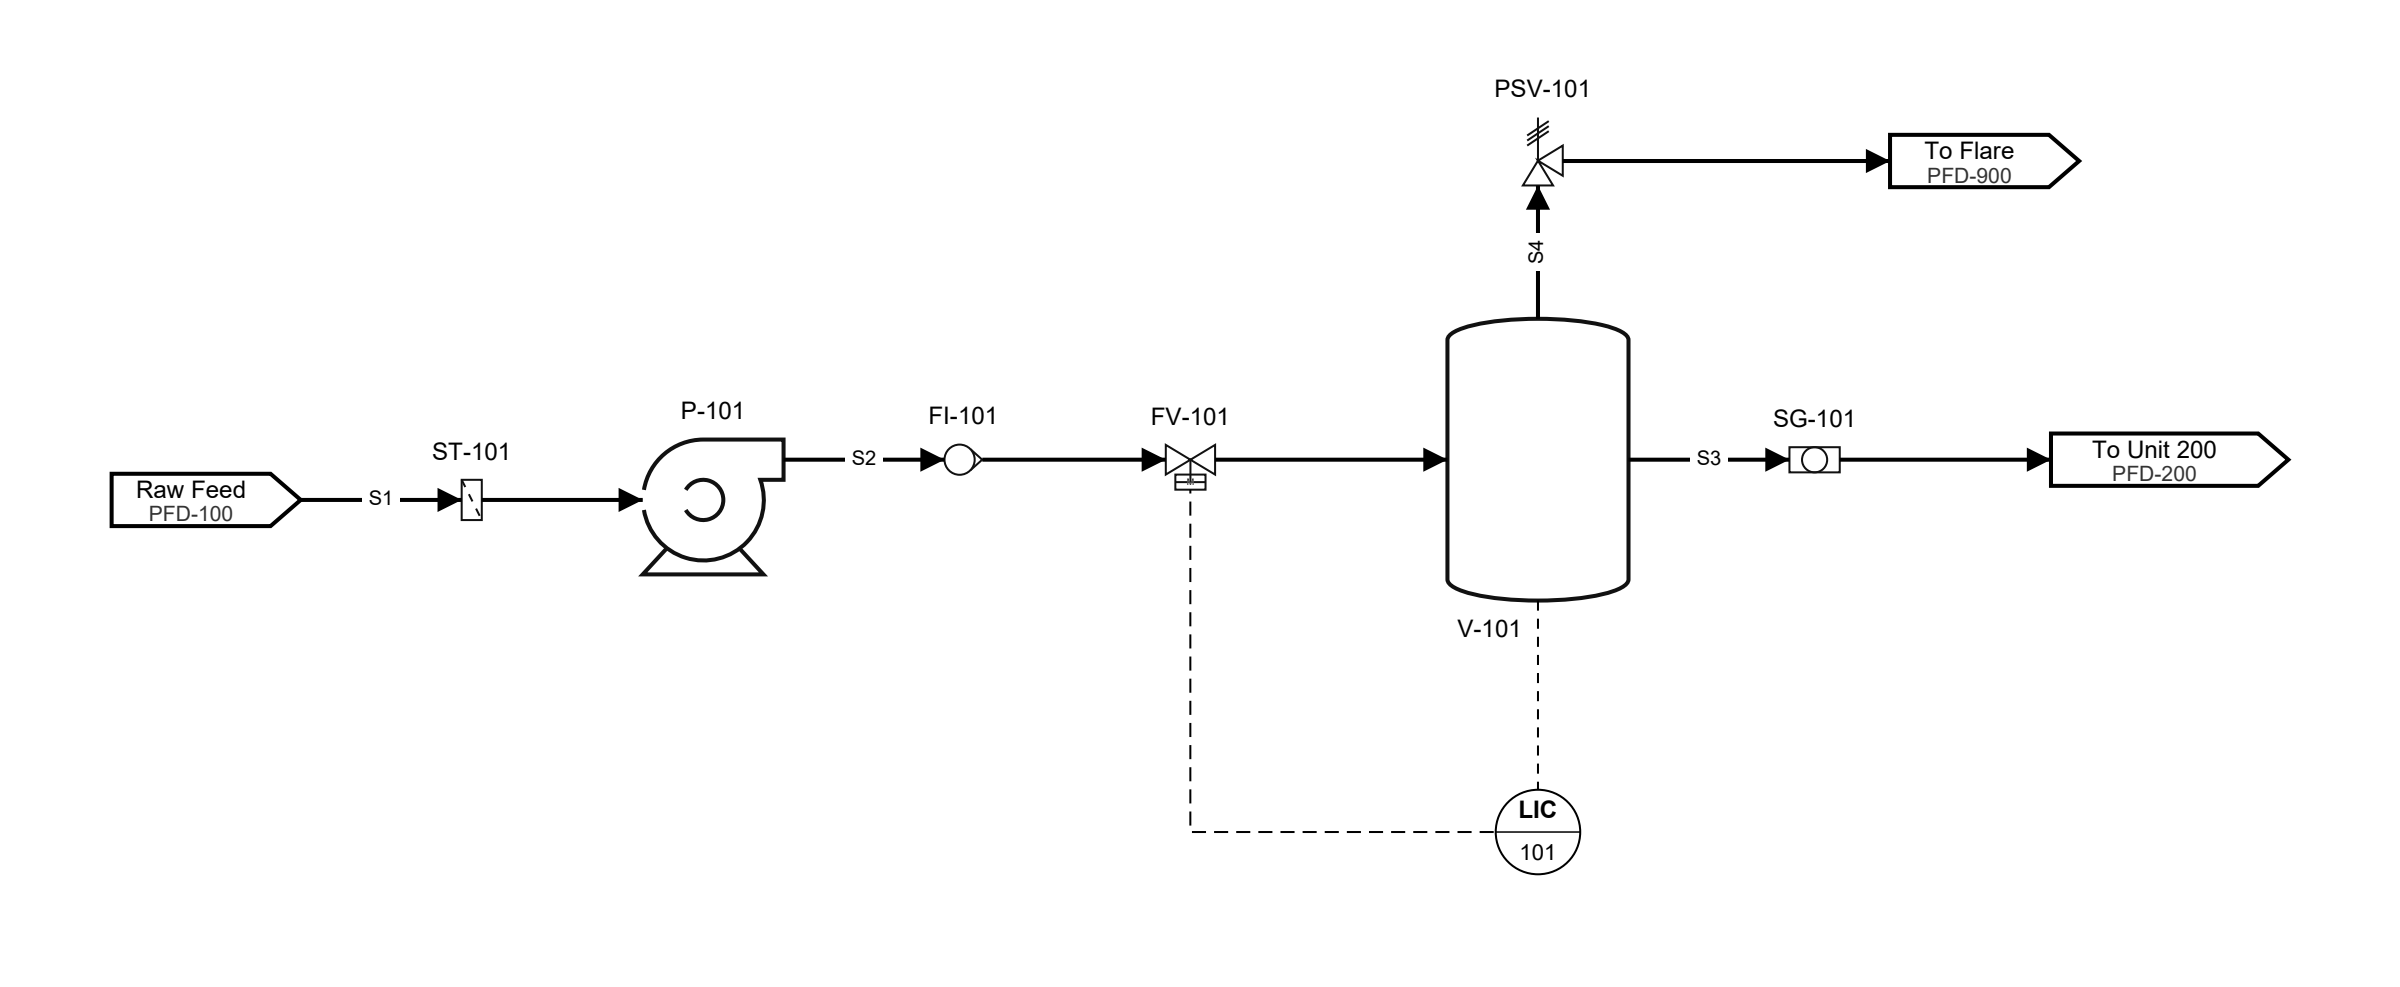
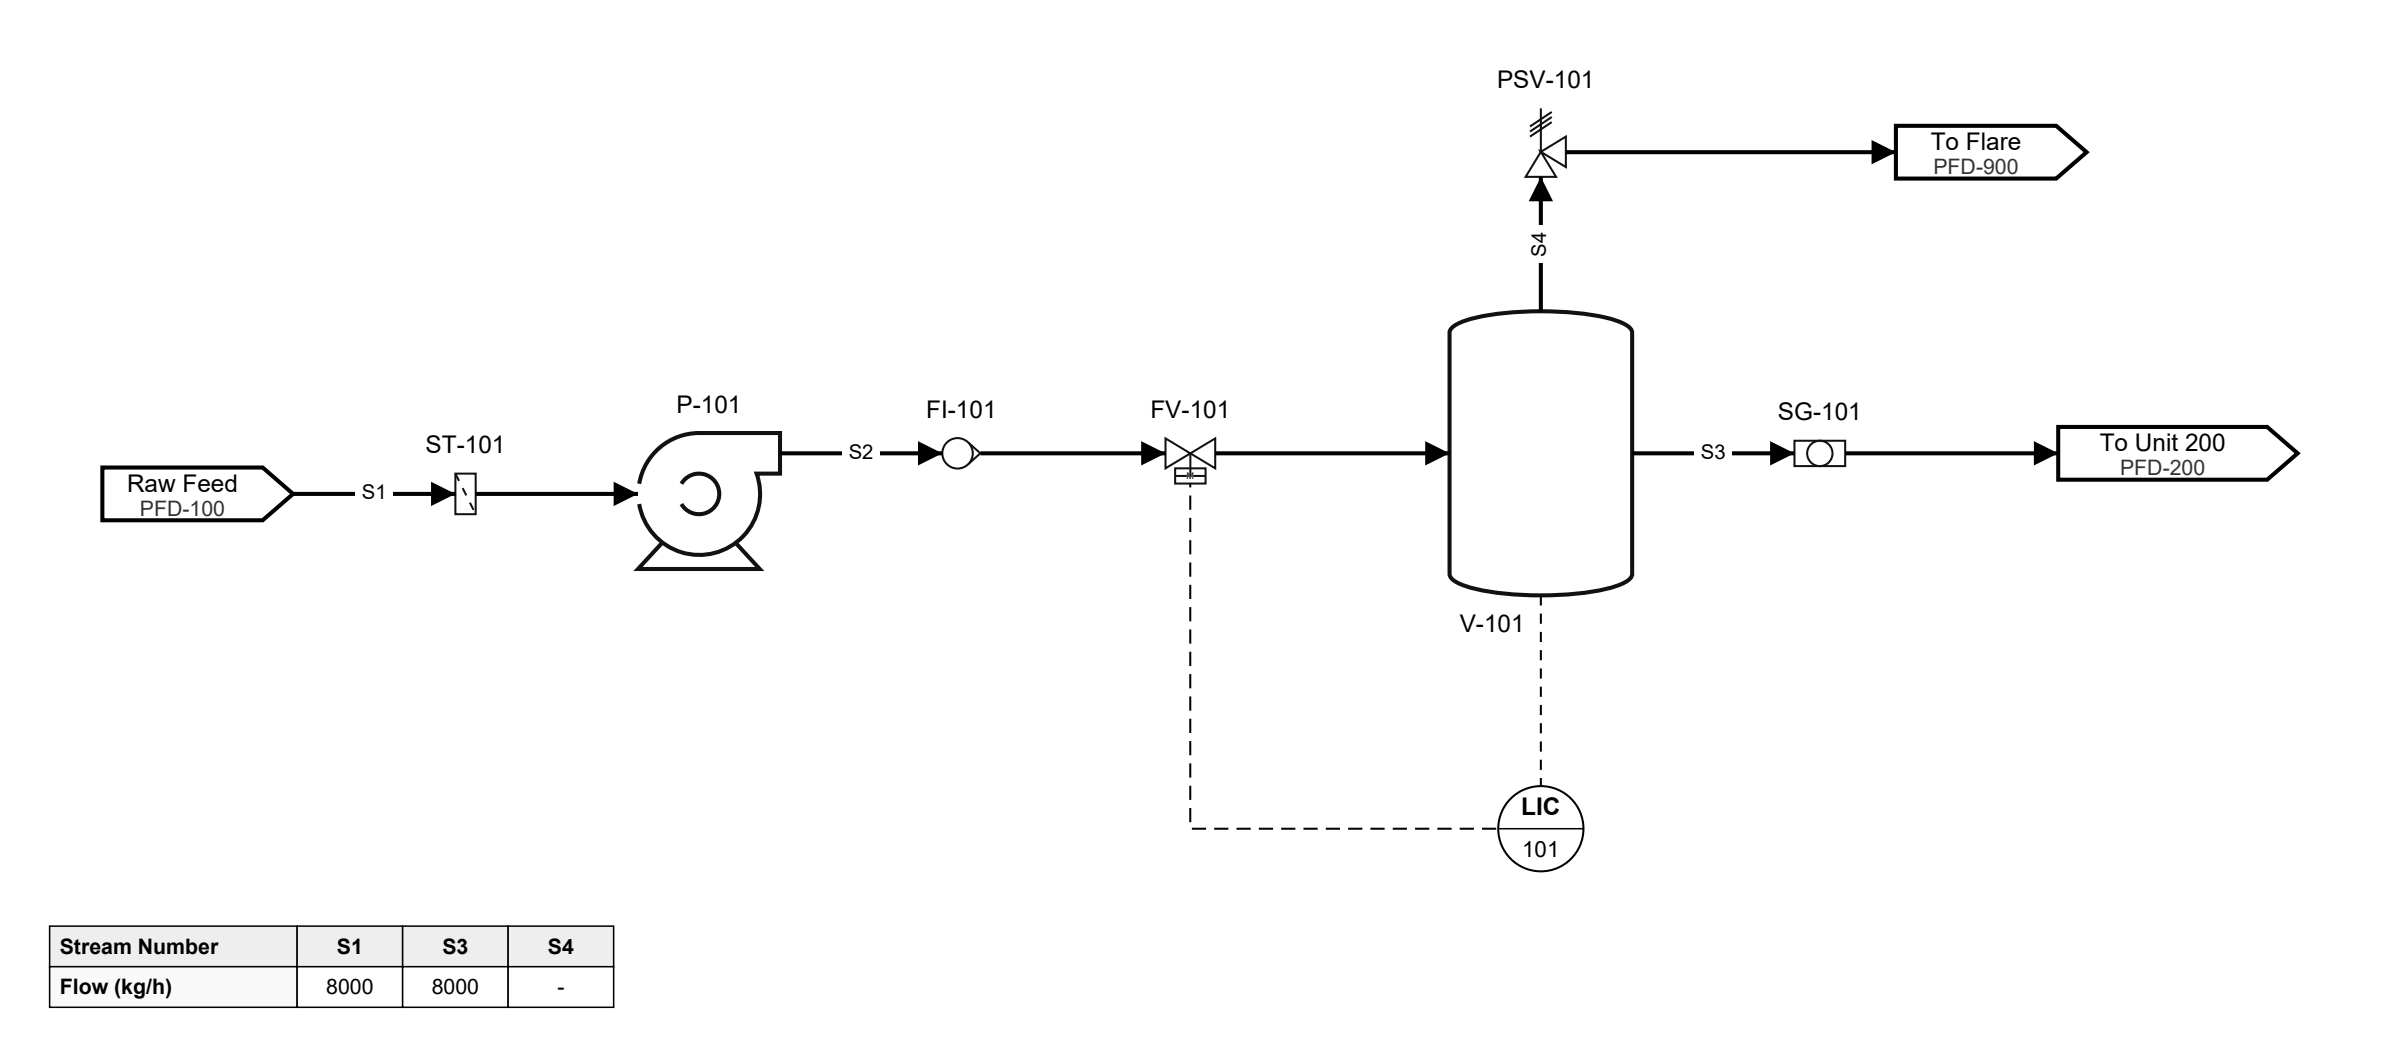
fix(examples): tabulate the metering skid's boundary streams
07_metering_skid raised stream-table-missing (#410). The surge vessel only
buffers what passes through it, so the feed and the outlet to Unit 200
carry the same number; the relief line is open only on overpressure and
carries none in normal service, so it states that with a blank value
rather than a number. Render with show_stream_table=True to report it.

diff --git a/tests/test_golden.py b/tests/test_golden.py
@@ -468,18 +468,21 @@ def _metering_skid() -> Flowsheet:
     psv.pin(y=110).pin(port="inlet", x=680 + port_offset(surge, "vent")[0])
     flare.pin(port="inlet", x=900, y=110 + port_offset(psv, "outlet")[1])
 
-    fs.connect(feed.outlet, strainer.inlet)
+    feed_in = fs.connect(feed.outlet, strainer.inlet)
     fs.connect(strainer.outlet, pump.suction)
     fs.connect(pump.discharge, meter.inlet)
     fs.connect(meter.outlet, fv.inlet)
     fs.connect(fv.outlet, surge.inlet)
     fs.connect(surge.outlet, glass.inlet)
-    fs.connect(glass.outlet, prod.inlet)
+    product_out = fs.connect(glass.outlet, prod.inlet)
     fs.connect(surge.vent, psv.inlet)
-    fs.connect(psv.outlet, flare.inlet)
+    relief_out = fs.connect(psv.outlet, flare.inlet)
 
     lic = fs.add_instrument("LIC", 101, sensing=surge, at="S", offset=115, display="central")
     fs.connect(lic.sig_out, fv.actuator, kind="electric")
+    feed_in.properties = {"Flow (kg/h)": "8000"}
+    product_out.properties = {"Flow (kg/h)": "8000"}
+    relief_out.properties = {"Flow (kg/h)": ""}
     return fs
 
 
@@ -4126,7 +4129,7 @@ SCENARIOS = {
     "04_control_loop": (_control_loop, {"show_stream_table": True}),
     "05_reactor_recycle": (_reactor_recycle, {"show_stream_table": True}),
     "06_column_reflux": (_column_reflux, {"show_stream_table": True}),
-    "07_metering_skid": (_metering_skid, {}),
+    "07_metering_skid": (_metering_skid, {"show_stream_table": True}),
     "08_from_data": (_from_data, {"show_stream_table": True, "border": "zone"}),
     # 09 is issued as a P&ID -- line numbers, "P&ID-1009" -- and is the one
     # scenario drawn as one, so it is also what guards the arrowless process

diff --git a/examples/07_metering_skid.py b/examples/07_metering_skid.py
@@ -62,16 +62,16 @@ def main():
     flare.pin(port="inlet", x=900, y=110 + port_offset(psv, "outlet")[1])
 
     # --- Connections --------------------------------------------------
-    fs.connect(feed.outlet, strainer.inlet)
+    feed_in = fs.connect(feed.outlet, strainer.inlet)
     fs.connect(strainer.outlet, pump.suction)
     fs.connect(pump.discharge, meter.inlet)
     fs.connect(meter.outlet, fv.inlet)
     fs.connect(fv.outlet, surge.inlet)
     fs.connect(surge.outlet, glass.inlet)
-    fs.connect(glass.outlet, prod.inlet)
+    product_out = fs.connect(glass.outlet, prod.inlet)
 
     fs.connect(surge.vent, psv.inlet)
-    fs.connect(psv.outlet, flare.inlet)
+    relief_out = fs.connect(psv.outlet, flare.inlet)
 
     # Hung below the vessel rather than beside it: the east side is the
     # outlet run, and an instrument placed into equipment fails
@@ -82,7 +82,14 @@ def main():
                             display="central")
     fs.connect(lic.sig_out, fv.actuator, kind="electric")
 
-    fs.render(out("metering_skid.svg"))
+    # The surge vessel only buffers what passes through it, so the feed
+    # and the outlet to Unit 200 carry the same number; the relief line
+    # is open only on overpressure and carries none in normal service.
+    feed_in.properties = {"Flow (kg/h)": "8000"}
+    product_out.properties = {"Flow (kg/h)": "8000"}
+    relief_out.properties = {"Flow (kg/h)": ""}
+
+    fs.render(out("metering_skid.svg"), show_stream_table=True)
     print("Generated metering_skid.svg")
 
 
